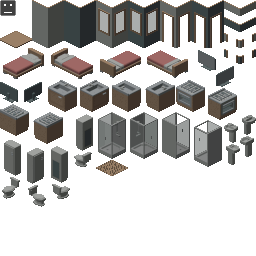
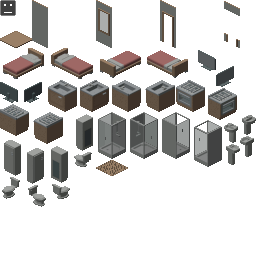
Adjust door/window frame colours and reuse sprites for all sides

diff --git a/sprite-info.cpp b/sprite-info.cpp
@@ -1,5 +1,9 @@
 #include "sprite-info.hpp"
 
+#include "graphics/surface.hpp"
+
+using blit::SpriteTransform;
+
 const SpriteInfo sprites[] {
     { 0,  3, 4, 3, 16, 16, 0}, // floor
     {12, 20, 4, 2, 16,  8, 0}, // grass
@@ -8,32 +12,32 @@ const SpriteInfo sprites[] {
 
     // wall
     { 4,  0, 2, 6, 16, 40, 0}, // bottom
-    { 6,  0, 2, 6,  0, 40, 0}, // right
-    { 8,  0, 2, 6,  0, 48, 0}, // top
-    {10,  0, 2, 6, 16, 48, 0}, // left
+    { 4,  0, 2, 6,  0, 40, SpriteTransform::HORIZONTAL}, // right
+    { 4,  0, 2, 6,  0, 48, 0}, // top
+    { 4,  0, 2, 6, 16, 48, SpriteTransform::HORIZONTAL}, // left
 
     // wall + window
     {12,  0, 2, 6, 16, 40, 0},
-    {14,  0, 2, 6,  0, 40, 0},
-    {16,  0, 2, 6,  0, 48, 0},
-    {18,  0, 2, 6, 16, 48, 0},
+    {12,  0, 2, 6,  0, 40, SpriteTransform::HORIZONTAL},
+    {12,  0, 2, 6,  0, 48, 0},
+    {12,  0, 2, 6, 16, 48, SpriteTransform::HORIZONTAL},
 
     // wall + door
     {20,  0, 2, 6, 16, 40, 0},
-    {22,  0, 2, 6,  0, 40, 0},
-    {24,  0, 2, 6,  0, 48, 0},
-    {26,  0, 2, 6, 16, 48, 0},
+    {20,  0, 2, 6,  0, 40, SpriteTransform::HORIZONTAL},
+    {20,  0, 2, 6,  0, 48, 0},
+    {20,  0, 2, 6, 16, 48, SpriteTransform::HORIZONTAL},
 
     // hidden wall
     {28,  0, 2, 2, 16,  8, 0},
-    {30,  0, 2, 2,  0,  8, 0},
-    {28,  2, 2, 2,  0, 16, 0},
-    {30,  2, 2, 2, 16, 16, 0},
+    {28,  0, 2, 2,  0,  8, SpriteTransform::HORIZONTAL},
+    {28,  0, 2, 2,  0, 16, 0},
+    {28,  0, 2, 2, 16, 16, SpriteTransform::HORIZONTAL},
     // hidden wall + door
     {28,  4, 2, 2, 16,  8, 0},
-    {30,  4, 2, 2,  0,  8, 0},
-    {28,  6, 2, 2,  0, 16, 0},
-    {30,  6, 2, 2, 16, 16, 0},
+    {28,  4, 2, 2,  0,  8, SpriteTransform::HORIZONTAL},
+    {28,  4, 2, 2,  0, 16, 0},
+    {28,  4, 2, 2, 16, 16, SpriteTransform::HORIZONTAL},
 
     // furniture may need some adjusting
 

diff --git a/world.cpp b/world.cpp
@@ -235,10 +235,22 @@ void World::render() {
             // also set base col (if reusing same sprite for all walls)
             screen.sprites->palette[5] = screen.sprites->palette[5 + side];
 
+            // recolour window/door frames
+            for(int i = 2; i < 5; i++) {
+                auto col = screen.sprites->palette[i];
+                screen.sprites->palette[i] = {
+                    col.r * (col_mul_r[side] + 1) / 256,
+                    col.g * (col_mul_g[side] + 1) / 256,
+                    col.b * (col_mul_b[side] + 1) / 256
+                };
+            }
+
             draw_sprite(pos, sprites[base_sprite * 4 + side]);
 
             screen.sprites->palette[5 + side] = orig_cols[5 + side];
-            screen.sprites->palette[5] = orig_cols[5];
+
+            for(int i = 2; i < 6; i++)
+                screen.sprites->palette[i] = orig_cols[i];
         }
     };
 
